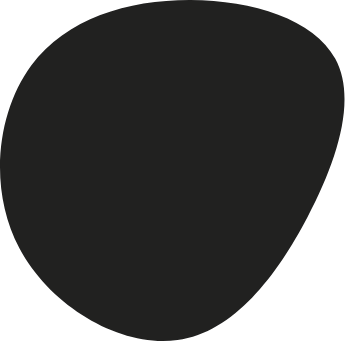
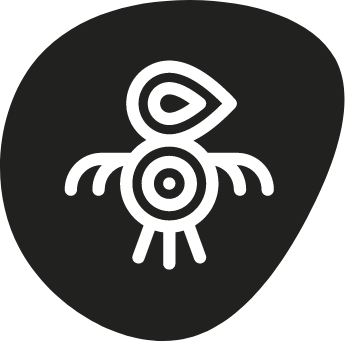
feat(stageVideoScreen): Created the video screen of the chapter. fix(resourcesScreen); Fixing size in this screen. feat(black_icon,podcast): Images were added fix(StageObjectivesScreen): Fixing the navigation to add the new video screen

Changed region(s): [[0.1739, 0.1754, 0.8116, 0.7895]]

diff --git a/lib/screens/chapter_screens/stageVideo.screen.dart b/lib/screens/chapter_screens/stageVideo.screen.dart
@@ -1,0 +1,159 @@
+import 'package:flutter/material.dart';
+import 'package:lab_movil_2222/screens/chapter_screens/resources.screen.dart';
+import 'package:lab_movil_2222/shared/widgets/chapter_background_widget.dart';
+import 'package:lab_movil_2222/shared/widgets/custom_navigation_bar.dart';
+import 'package:lab_movil_2222/themes/colors.dart';
+import 'package:lab_movil_2222/themes/textTheme.dart';
+
+class StageVideoScreen extends StatelessWidget {
+  @override
+  Widget build(BuildContext context) {
+    Size size = MediaQuery.of(context).size;
+    return Scaffold(
+      body: Center(
+        child: GestureDetector(
+          ///To make the horizontal scroll to the next or previous page.
+          onPanUpdate: (details) {
+            ///left
+            if (details.delta.dx > 5) {
+              Navigator.pop(context);
+            }
+
+            ///right
+            if (details.delta.dx < -5) {
+              Navigator.push(
+                context,
+                MaterialPageRoute(
+                  builder: (context) {
+                    return ResourcesScreen();
+                  },
+                ),
+              );
+            }
+          },
+          child: Stack(
+            children: [
+              ChapterBackgroundWidget(
+                backgroundColor: ColorsApp.backgroundOrange,
+                hasBanner: true,
+                reliefPosition: 'top-left',
+              ),
+              _stageVideoContent(size),
+            ],
+          ),
+        ),
+      ),
+      bottomNavigationBar: CustomNavigationBar(),
+    );
+  }
+
+  _stageVideoContent(Size size) {
+    double bodyMarginHeight = size.height * 0.18;
+
+    ///sizing the container to the mobile
+    return Container(
+      // decoration: BoxDecoration(border: Border.all(color: Colors.white)),
+      margin: EdgeInsets.only(
+        top: bodyMarginHeight,
+      ),
+      child: ListView(
+        children: [
+          _videoTitleContainer(size),
+          _videoContent(size),
+        ],
+      ),
+    );
+  }
+
+  _videoTitleContainer(Size size) {
+    return UnconstrainedBox(
+      child: Container(
+        color: Colors.white,
+        width: size.width,
+        height: size.height * 0.15,
+        padding:
+            EdgeInsets.symmetric(horizontal: size.width * 0.1, vertical: 10),
+        child: Column(
+          crossAxisAlignment: CrossAxisAlignment.start,
+          children: [
+            Text(
+              'Nombre Autor Video'.toUpperCase(),
+              style: korolevFont.headline5
+                  ?.apply(color: Colors.black, fontSizeFactor: 0.7),
+              overflow: TextOverflow.ellipsis,
+            ),
+            SizedBox(
+              height: 10,
+            ),
+            Text(
+              'TÍTULO DEL VIDEO LOREM IPSUM SIT AMET CONSEQUTETUR'
+                  .toUpperCase(),
+              style: korolevFont.headline6?.apply(
+                color: ColorsApp.backgroundOrange,
+              ),
+              maxLines: 2,
+              overflow: TextOverflow.ellipsis,
+            ),
+          ],
+        ),
+      ),
+    );
+  }
+
+  _videoContent(Size size) {
+    return Padding(
+      padding: EdgeInsets.symmetric(horizontal: size.width * 0.1, vertical: 30),
+      child: Column(
+        children: [
+          _textContent(size),
+          SizedBox(
+            height: 50,
+          ),
+          _videoContainer(),
+          SizedBox(
+            height: 50,
+          ),
+          _podcastContainer(size),
+        ],
+      ),
+    );
+  }
+
+  _textContent(Size size) {
+    return Text(
+      'Sed ut perspiciatis unde omnis iste natus error sit voluptatem accusantium doloremque laudantium, totam rem aperiam, eaque ipsa quae ab illo inventore veritatis et quasi architecto\n\n\nSed ut perspiciatis unde omnis iste natus error sit voluptatem accusantium doloremque laudantium, totam rem aperiam, eaque ipsa quae ab illo inventore veritatis et quasi architecto',
+      style: korolevFont.bodyText1?.apply(),
+    );
+  }
+
+  _videoContainer() {
+    return ClipRRect(
+      borderRadius: BorderRadius.circular(10),
+      child: FadeInImage(
+        placeholder: AssetImage('assets/gifs/giphy.gif'),
+        image: NetworkImage(
+            "http://altsolutions.es/wp-content/uploads/2017/02/alt-solutions-subida-de-videos-en-youtube.jpg"),
+      ),
+    );
+  }
+
+  _podcastContainer(Size size) {
+    return InkWell(
+      onTap: () {
+        print('podcast icon pressed');
+      },
+      child: Column(
+        children: [
+          Image(
+            image: AssetImage('assets/icons/podcast_icon.png'),
+          ),
+          SizedBox(height: 20),
+          Text(
+            'Escucha el podcast',
+            style: korolevFont.headline6?.apply(),
+          )
+        ],
+      ),
+    );
+  }
+}

diff --git a/lib/screens/chapter_screens/stageobjectives.screen.dart b/lib/screens/chapter_screens/stageobjectives.screen.dart
@@ -1,5 +1,6 @@
 import 'package:flutter/material.dart';
 import 'package:lab_movil_2222/screens/chapter_screens/resources.screen.dart';
+import 'package:lab_movil_2222/screens/chapter_screens/stageVideo.screen.dart';
 import 'package:lab_movil_2222/shared/widgets/chapter-title-section.dart';
 import 'package:lab_movil_2222/shared/widgets/chapter_background_widget.dart';
 import 'package:lab_movil_2222/shared/widgets/custom_navigation_bar.dart';
@@ -21,7 +22,7 @@ class StageObjetivesScreen extends StatelessWidget {
               context,
               MaterialPageRoute(
                 builder: (context) {
-                  return ResourcesScreen();
+                  return StageVideoScreen();
                 },
               ),
             );
@@ -34,7 +35,6 @@ class StageObjetivesScreen extends StatelessWidget {
               reliefPosition: 'top-left',
               hasBanner: true,
             ),
-
             _stageBody(size),
           ],
         ),
@@ -85,13 +85,13 @@ class StageObjetivesScreen extends StatelessWidget {
           ),
           SizedBox(height: spacedBodyContainers),
           Container(
-            width: double.infinity,
-            height: bodyContainerHeight * 0.30,
-            margin:
-                EdgeInsets.only(left: bodyMarginLeft, right: bodyMarginLeft),
-            decoration: BoxDecoration(border: Border.all(color: Colors.white)),
-            child: _contentsBody([5, 4, 4, 4, 4, 5])
-          ),
+              width: double.infinity,
+              height: bodyContainerHeight * 0.30,
+              margin:
+                  EdgeInsets.only(left: bodyMarginLeft, right: bodyMarginLeft),
+              decoration:
+                  BoxDecoration(border: Border.all(color: Colors.white)),
+              child: _contentsBody([5, 4, 4, 4, 4, 5])),
           SizedBox(height: spacedBodyContainers),
           ChapterTitleSection(
             title: 'COMPETENCIAS',
@@ -161,12 +161,13 @@ class StageObjetivesScreen extends StatelessWidget {
     return Container(
       height: double.infinity,
       width: double.infinity,
+
       ///general left padding 25
-      
+
       decoration: BoxDecoration(border: Border.all(color: Colors.blueAccent)),
 
       ///To resize the parent container of the list of books
-      
+
       child: ListView.builder(
           itemCount: list.length,
           itemBuilder: (context, index) {
@@ -175,10 +176,11 @@ class StageObjetivesScreen extends StatelessWidget {
               padding: EdgeInsets.all(15),
               child: Row(
                 children: [
-                  Text('${index+1}',
-                  textAlign: TextAlign.left,),
                   Text(
-                      'Contenido')
+                    '${index + 1}',
+                    textAlign: TextAlign.left,
+                  ),
+                  Text('Contenido')
                 ],
               ),
             );

diff --git a/lib/screens/chapter_screens/resources.screen.dart b/lib/screens/chapter_screens/resources.screen.dart
@@ -10,7 +10,6 @@ class ResourcesScreen extends StatelessWidget {
   @override
   Widget build(BuildContext context) {
     Size size = MediaQuery.of(context).size;
-    print(size);
     return Scaffold(
       body: Center(
         child: GestureDetector(
@@ -48,14 +47,14 @@ class ResourcesScreen extends StatelessWidget {
 
   ///body of the screen
   _resourcesContent(Size size) {
-    double bodyMarginWidth = size.width * 0.30;
-    double bodyMarginHeight = size.height * 0.03;
+    double bodyMarginWidth = size.width * 0.03;
+    double bodyMarginHeight = size.height * 0.18;
 
     ///sizing the container to the mobile
     return Container(
       margin: EdgeInsets.only(
-        top: bodyMarginWidth,
-        right: bodyMarginHeight,
+        top: bodyMarginHeight,
+        right: bodyMarginWidth,
       ),
 
       ///Listview of the whole screen
